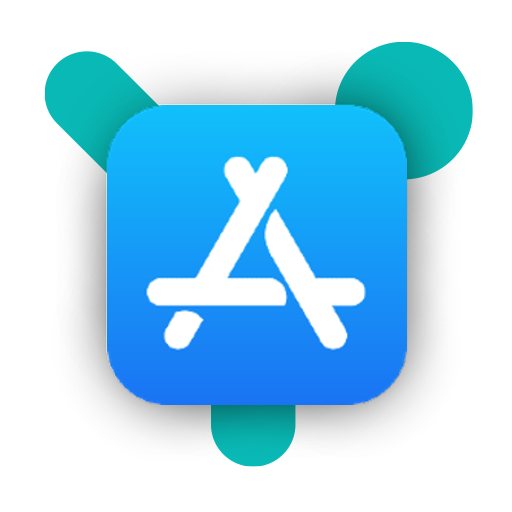
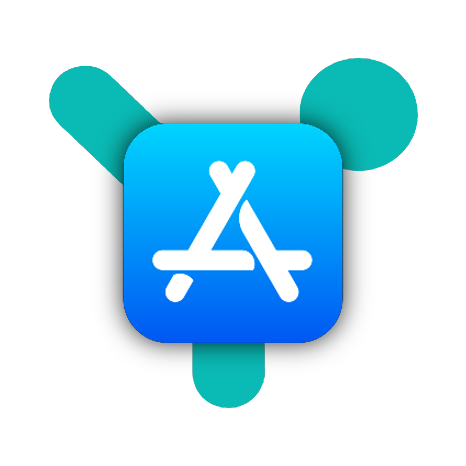
3

diff --git a/style/style.css b/style/style.css
@@ -216,15 +216,16 @@ li.subscribe-step-1 .register-btn {
       position: static;
       display: inline-flex; } }
   .subscribe-step-3 div.images-container div.image-container {
-    width: 30%;
+    width: 35%;
     display: inline-block;
     margin: 12px;
     box-sizing: content-box; }
     .subscribe-step-3 div.images-container div.image-container img.app-image {
       width: 100%;
-      border: 2px solid #0ABaB0;
-      border-radius: 19%;
-      box-shadow: 0px 0px 6px 1px rgba(0, 0, 0, 0.3); }
+      border: 4px solid #09435E;
+      border-radius: 30%;
+      padding: 4px;
+      box-shadow: 0px 3px 6px 0px #00000070; }
 
 .modal-table .modal-body {
   width: 100vw;

diff --git a/style/style.sass b/style/style.sass
@@ -230,16 +230,16 @@ li.subscribe-step-1 .register-btn
 		position: static
 		display: inline-flex
 	div.image-container
-		width: 30%
+		width: 35%
 		display: inline-block
 		margin: 12px
 		box-sizing: content-box
 		img.app-image
 			width: 100%
-			border: 2px solid #0ABaB0
-			border-radius: 19%
-			box-shadow: 0px 0px 6px 1px rgba(0, 0, 0, 0.30)
-
+			border: 4px solid #09435E
+			border-radius: 30%
+			padding: 4px
+			box-shadow: 0px 3px 6px 0px #00000070
 
 .modal-table .modal-body
 	width: 100vw
